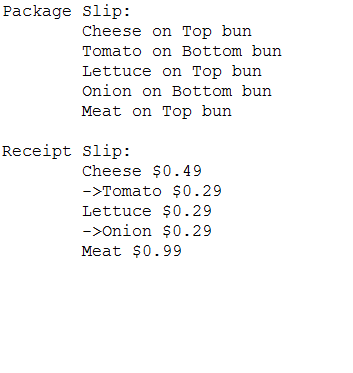
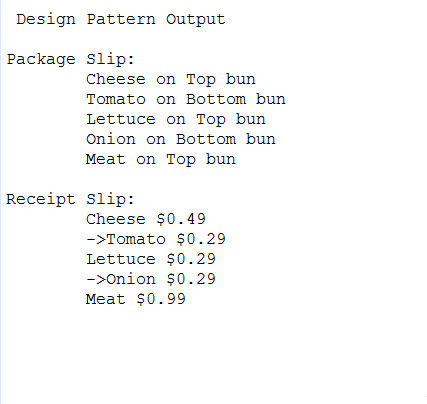
changes in solution and add readme file

Changed region(s): [[0.0, 0.0, 0.779, 0.7668], [0.4363, 0.4424, 0.5921, 0.4718], [0.7167, 0.118, 0.8102, 0.1475]]

diff --git a/lab9/java-pattern-impl/src/ReceiptSlipStrategy.java b/lab9/java-pattern-impl/src/ReceiptSlipStrategy.java
@@ -1,4 +1,3 @@
-package lab9;
 
 public class ReceiptSlipStrategy implements IStrategy {
     @Override

diff --git a/lab9/java-lambda-impl/src/IStrategy.java b/lab9/java-lambda-impl/src/IStrategy.java
@@ -1,4 +1,3 @@
-package lab9;
 
 public interface IStrategy {
     public String execute(String[] s);

diff --git a/lab9/java-pattern-impl/src/IStrategy.java b/lab9/java-pattern-impl/src/IStrategy.java
@@ -1,4 +1,3 @@
-package lab9;
 
 public interface IStrategy {
     public void execute(String[] s);

diff --git a/lab9/java-pattern-impl/src/PackageSlipStrategy.java b/lab9/java-pattern-impl/src/PackageSlipStrategy.java
@@ -1,4 +1,3 @@
-package lab9;
 
 public class PackageSlipStrategy implements IStrategy {
 

diff --git a/lab9/java-lambda-impl/src/BuildOrder.java b/lab9/java-lambda-impl/src/BuildOrder.java
@@ -1,4 +1,3 @@
-package lab9;
 
 import java.util.Arrays;
 

diff --git a/lab9/java-pattern-impl/src/Main.java b/lab9/java-pattern-impl/src/Main.java
@@ -1,4 +1,3 @@
-package lab9;
 
 public class Main
 {

diff --git a/lab9/README.md b/lab9/README.md
@@ -1,0 +1,15 @@
+
+# Summary
+
+- To demonstrate and compare the use of design patterns and lambda functions, I have implemented the scenario of 5Guys receipt and package slip printing.
+- The design pattern used for the same purpose is Strategy.
+- The slip can be printed using two strategies - Receipt Strategy & Package Slip Strategy.
+- Design pattern helps decoupling of the objects, however it adds an overhead in the number of files/classes for each strategy.
+- The Lambda functions on the other side help to implement the same logic in a single class file. 
+- This results in a very concise code as there is no need to add additional interfaces and classes in the solution.
+- Also, the code becomes readable and easy to understand in a single class file.
+
+## Lab 9 submission-
+
+- The folder 'java-pattern-impl' has implementation using the strategy design pattern.
+- The folder 'java-lambda-impl' has implementation using lambda functions.
